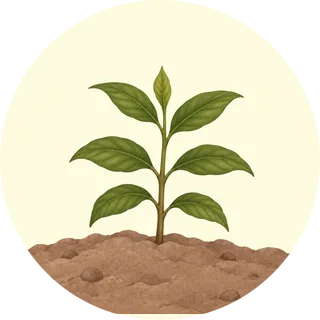
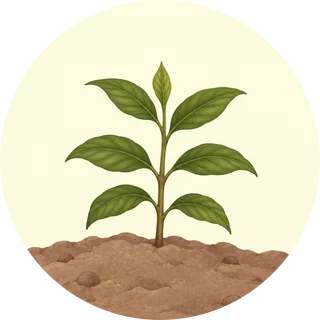
fix(beans): cut the growth badges out of the art, not inside it
- Remove the band of sky the previous cut left under the soil: the
  ground is painted to the frame's own edge, so padding it inward puts
  background where the ground should be

diff --git a/apps/fe/src/components/cafe/GrowthIcon.tsx b/apps/fe/src/components/cafe/GrowthIcon.tsx
@@ -10,9 +10,10 @@ import Image from 'next/image';
   painted on does not change with the theme, and a stage a reader recognises should
   look the same wherever it appears.
 
-  The art is square and full-bleed; the circles are cut at build time from
-  `media-src/bean-growth/` into `public/growth/`, inset slightly so the widest leaves
-  stay inside the cut.
+  The art is square and full-bleed, and the circles are cut straight out of it at build
+  time (`media-src/bean-growth/` into `public/growth/`) rather than being inset inside a
+  padded square: the soil is painted to the frame's own edge, so any padding leaves a
+  band of sky under it where the ground should be.
 */
 const STAGES = [
   { src: '/growth/seed.webp', name: 'Bean Dropped' },
